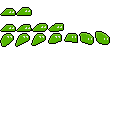
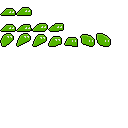
implemented jump

Changed region(s): [[0.0938, 0.2188, 0.875, 0.375]]

diff --git a/main.c b/main.c
@@ -27,7 +27,7 @@ typedef struct {
 } Animation;
 
 typedef struct {
-	int x, y, speed;
+	float x, y, speed;
 	SDL_Texture* tex;
 	Animation* animations;
 } ObjectInfo;
@@ -44,8 +44,8 @@ static const int TARGET_FPS = 1000 / 60; /* second per 60 frames */
 static const int GAME_SCALE = 10; /* multiply every render' scale by 5 */
 
 /* temporary level stuff */
-static const int CAM_WIDTH = 640;
-static const int CAM_HEIGHT = 360;
+static const int CAM_WIDTH = 1280;
+static const int CAM_HEIGHT = 720;
 static int xcam = 0;
 static int ycam = 0;
 
@@ -227,8 +227,8 @@ render_object(ObjectInfo *oi, int anim_index, int inverted){
 	SDL_Rect dst = {
 		.x = (oi->x - xcam) * GAME_SCALE,
 		.y = (oi->y - ycam) * GAME_SCALE,
-		.w = oi->animations[anim_index].frames[curr_frame].w * GAME_SCALE * 2,
-		.h = oi->animations[anim_index].frames[curr_frame].h * GAME_SCALE * 2
+		.w = oi->animations[anim_index].frames[curr_frame].w * GAME_SCALE,
+		.h = oi->animations[anim_index].frames[curr_frame].h * GAME_SCALE
 	};
 
 	// actual rendering
@@ -256,8 +256,8 @@ int main(int argc, char* argv[]){
 	int quit = 0;
 	int frame_count = 0;
 	int inverted = 0;
-	int grav = 1;
-	int vsp = 0;
+	float grav = 0.08f;
+	float vsp = 0.0f;
 	Uint32 delta;
 	SDL_Event e;
 
@@ -298,15 +298,15 @@ int main(int argc, char* argv[]){
 			inverted = 1;
 		}
 
-//		if(Sli.y + 15 <= 57 * GAME_SCALE) {
-//			vsp += grav;
-//		} else {
-//			grav = 0;
-//			vsp = 0;
-//			if(jmp) {
-//				vsp = -10;
-//			}
-//		}
+		if(Sli.y + 4 <= 46) {
+			toRender = 1;
+			vsp += grav;
+		} else {
+			vsp = 0;
+			if(jmp) {
+				vsp = -2.0f;
+			}
+		}
 
 		Sli.x += hsp;
 		Sli.y += vsp;
